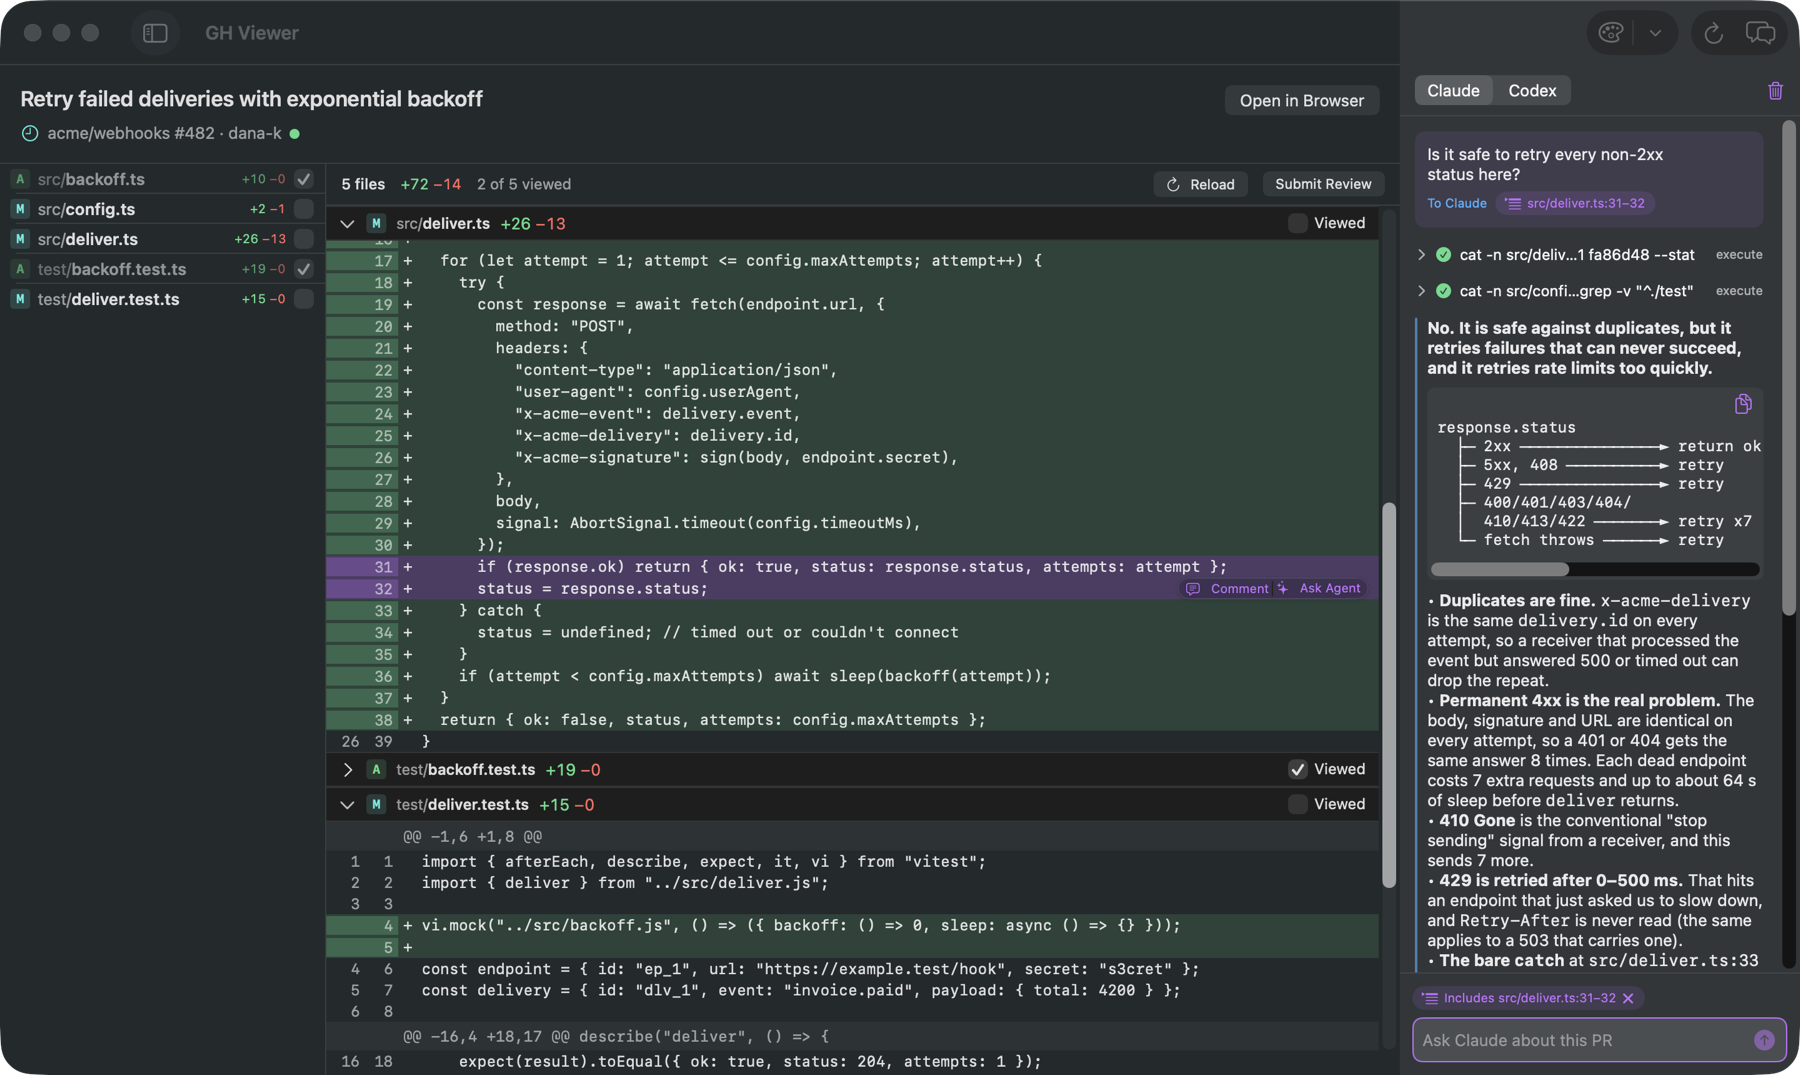
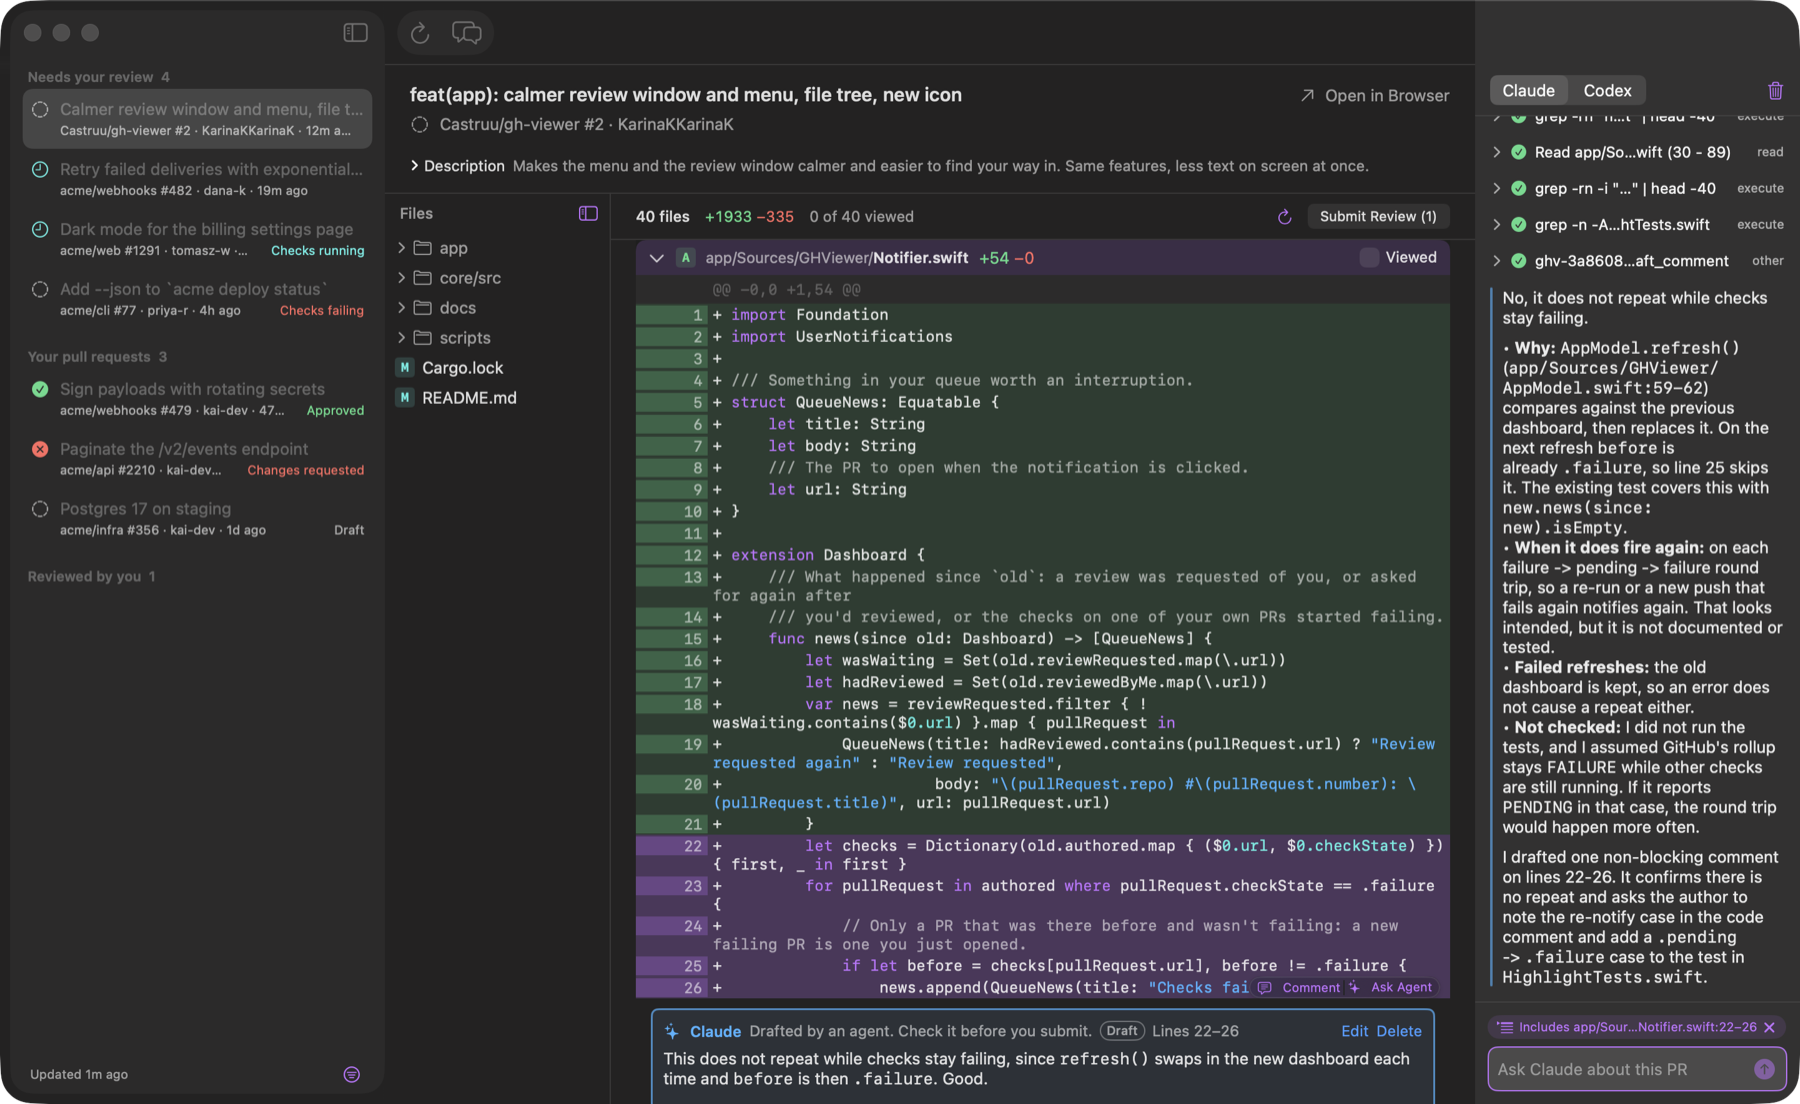
docs: retake the chat, draft and submit screenshots; test the re-notify case
The three remaining README screenshots show the current window. A test and a
comment cover that failing checks notify again after a re-run, and don't
while they stay failing.

diff --git a/app/Sources/GHViewer/Notifier.swift b/app/Sources/GHViewer/Notifier.swift
@@ -22,6 +22,8 @@ extension Dashboard {
         let checks = Dictionary(old.authored.map { ($0.url, $0.checkState) }) { first, _ in first }
         for pullRequest in authored where pullRequest.checkState == .failure {
             // Only a PR that was there before and wasn't failing: a new failing PR is one you just opened.
+            // It doesn't repeat while the checks stay failing, and it does tell you again when a
+            // re-run or a new push fails after the checks had been running or passing.
             if let before = checks[pullRequest.url], before != .failure {
                 news.append(QueueNews(title: "Checks failing",
                                       body: "\(pullRequest.repo) #\(pullRequest.number): \(pullRequest.title)",

diff --git a/app/Tests/GHViewerTests/HighlightTests.swift b/app/Tests/GHViewerTests/HighlightTests.swift
@@ -53,5 +53,10 @@ struct HighlightTests {
         #expect(new.news(since: old).map(\.title) == ["Review requested again", "Review requested", "Checks failing"])
         #expect(new.news(since: old).map(\.url) == ["u3", "u4", "u1"])
         #expect(new.news(since: new).isEmpty)
+        // A re-run that fails again is news again; staying failed isn't.
+        let rerunning = dashboard(authored: [pr(1, checks: .pending)])
+        let failedAgain = dashboard(authored: [pr(1, checks: .failure)])
+        #expect(failedAgain.news(since: rerunning).map(\.title) == ["Checks failing"])
+        #expect(failedAgain.news(since: failedAgain).isEmpty)
     }
 }

diff --git a/README.md b/README.md
@@ -125,7 +125,7 @@ to pick from for the Dock.
 
 <img src="docs/assets/screenshots/drafts.png" alt="A draft review comment written by the agent, shown inline in the diff">
 
-<img src="docs/assets/screenshots/submit.png" width="420" align="right" alt="The Submit Review sheet, listing the draft Claude wrote">
+<img src="docs/assets/screenshots/submit.png" width="420" align="right" alt="The Submit Review sheet, listing a draft comment">
 
 - Select lines to draft a comment yourself, or let the agent draft them. The agent
   writes replacement code as a GitHub suggestion the author can apply in one click.
